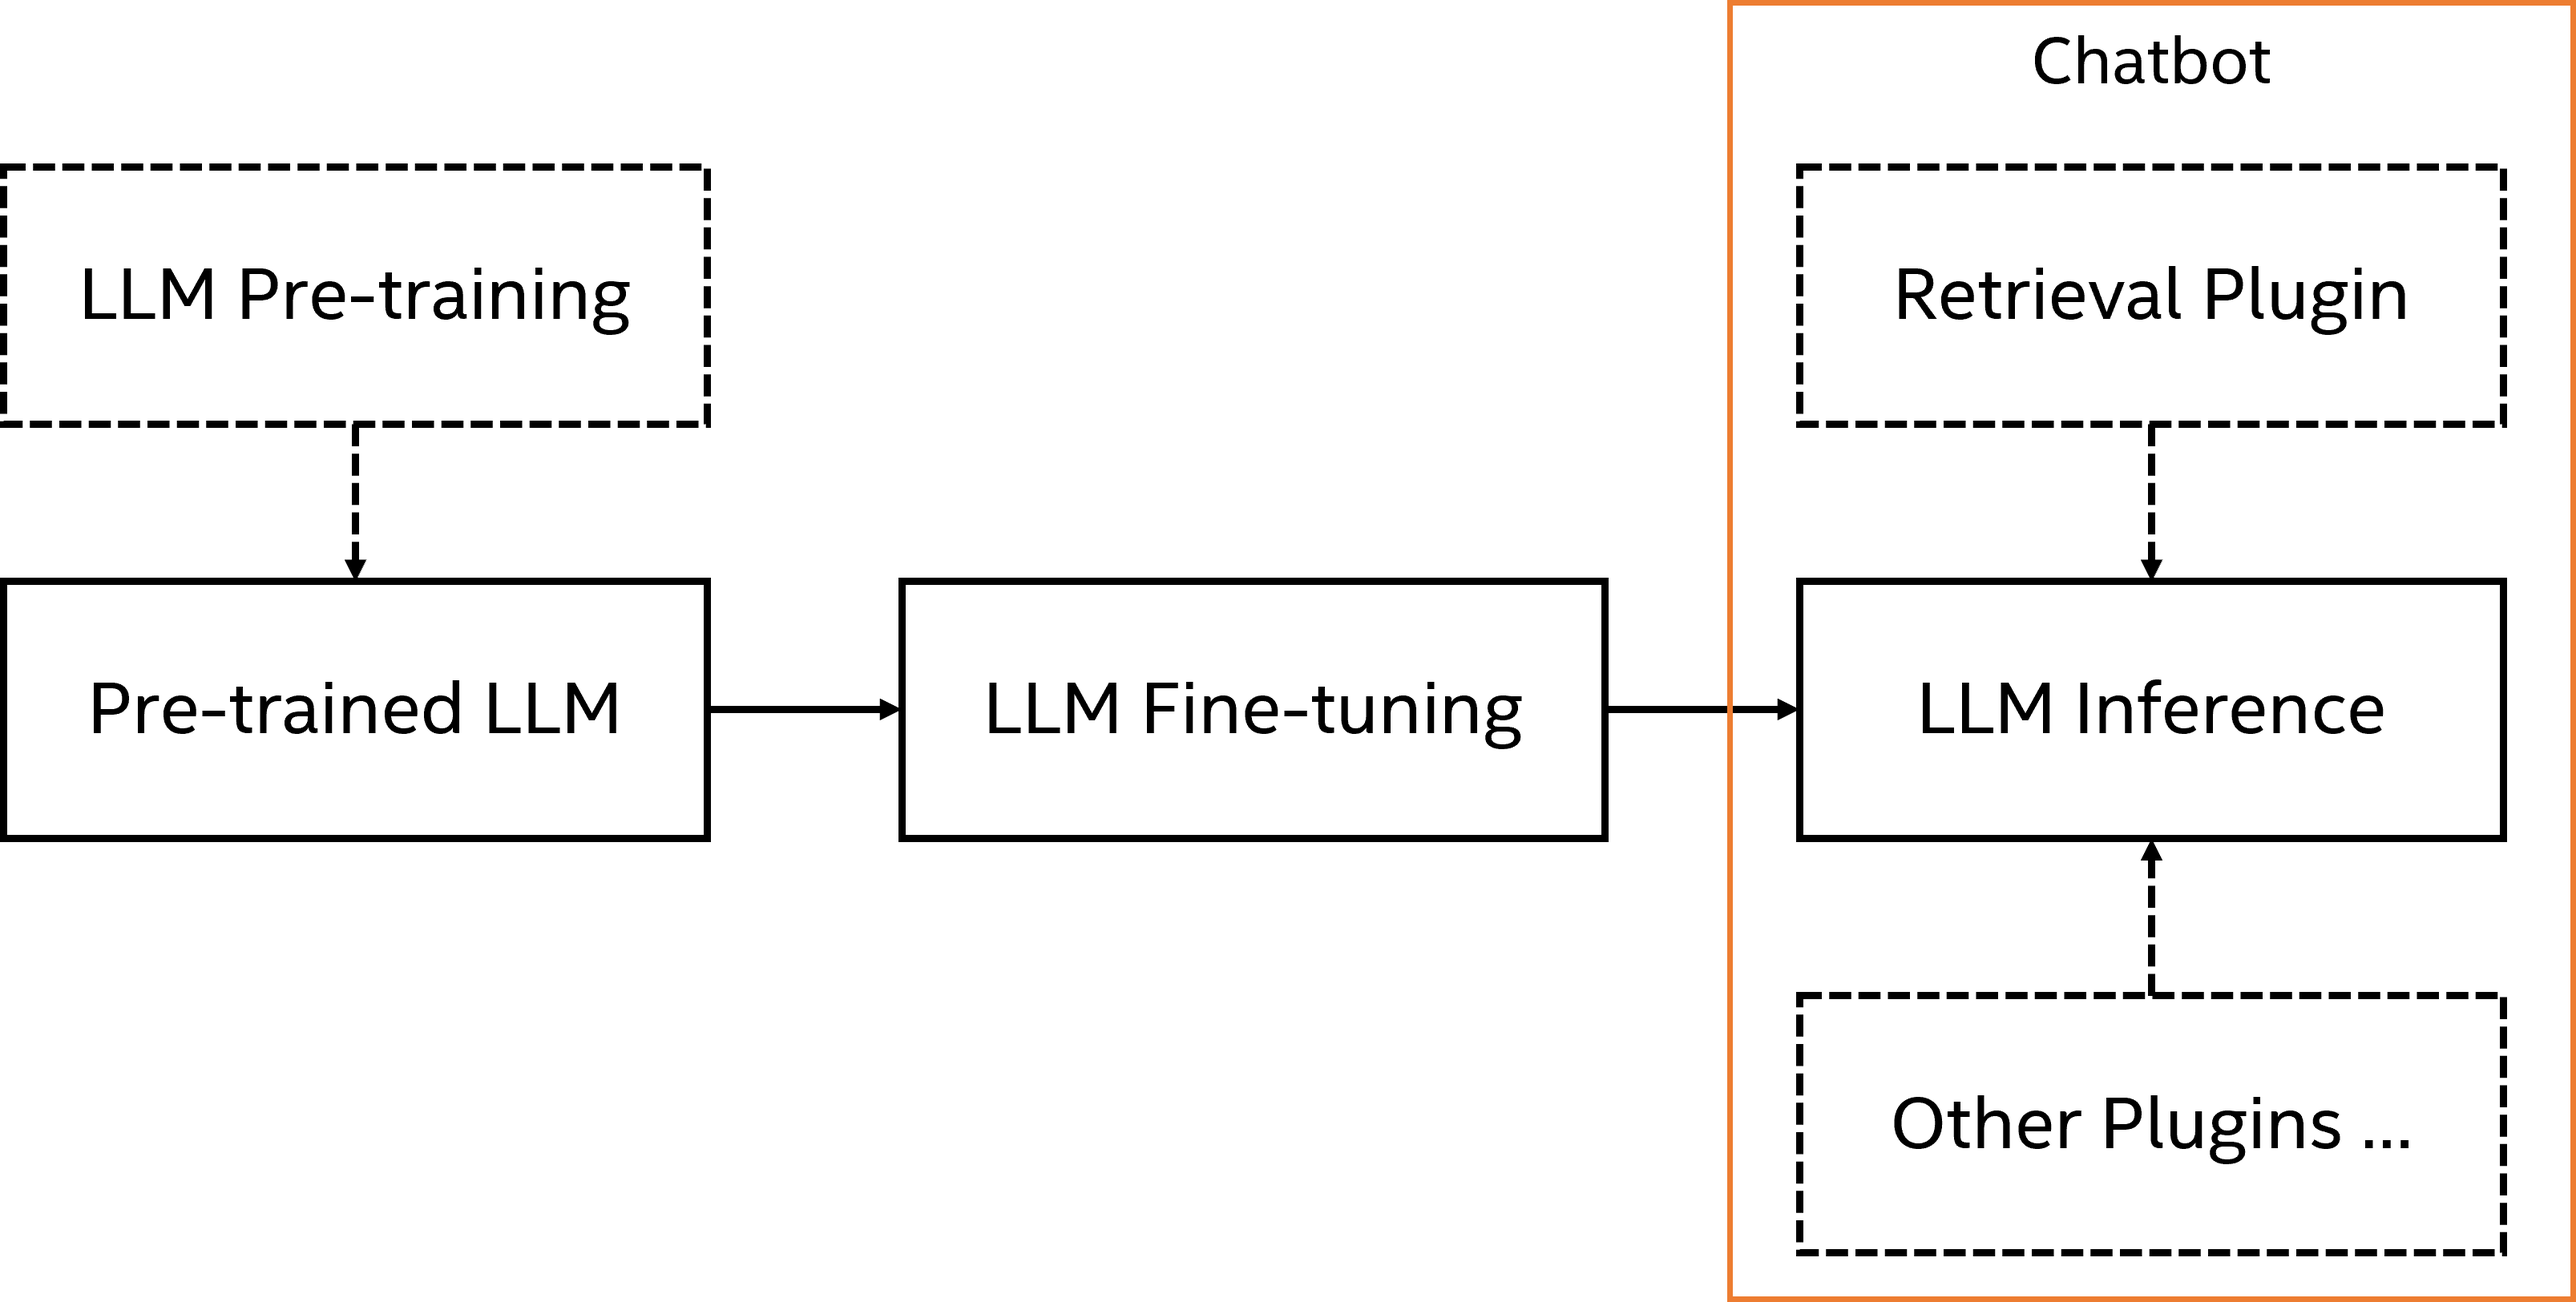
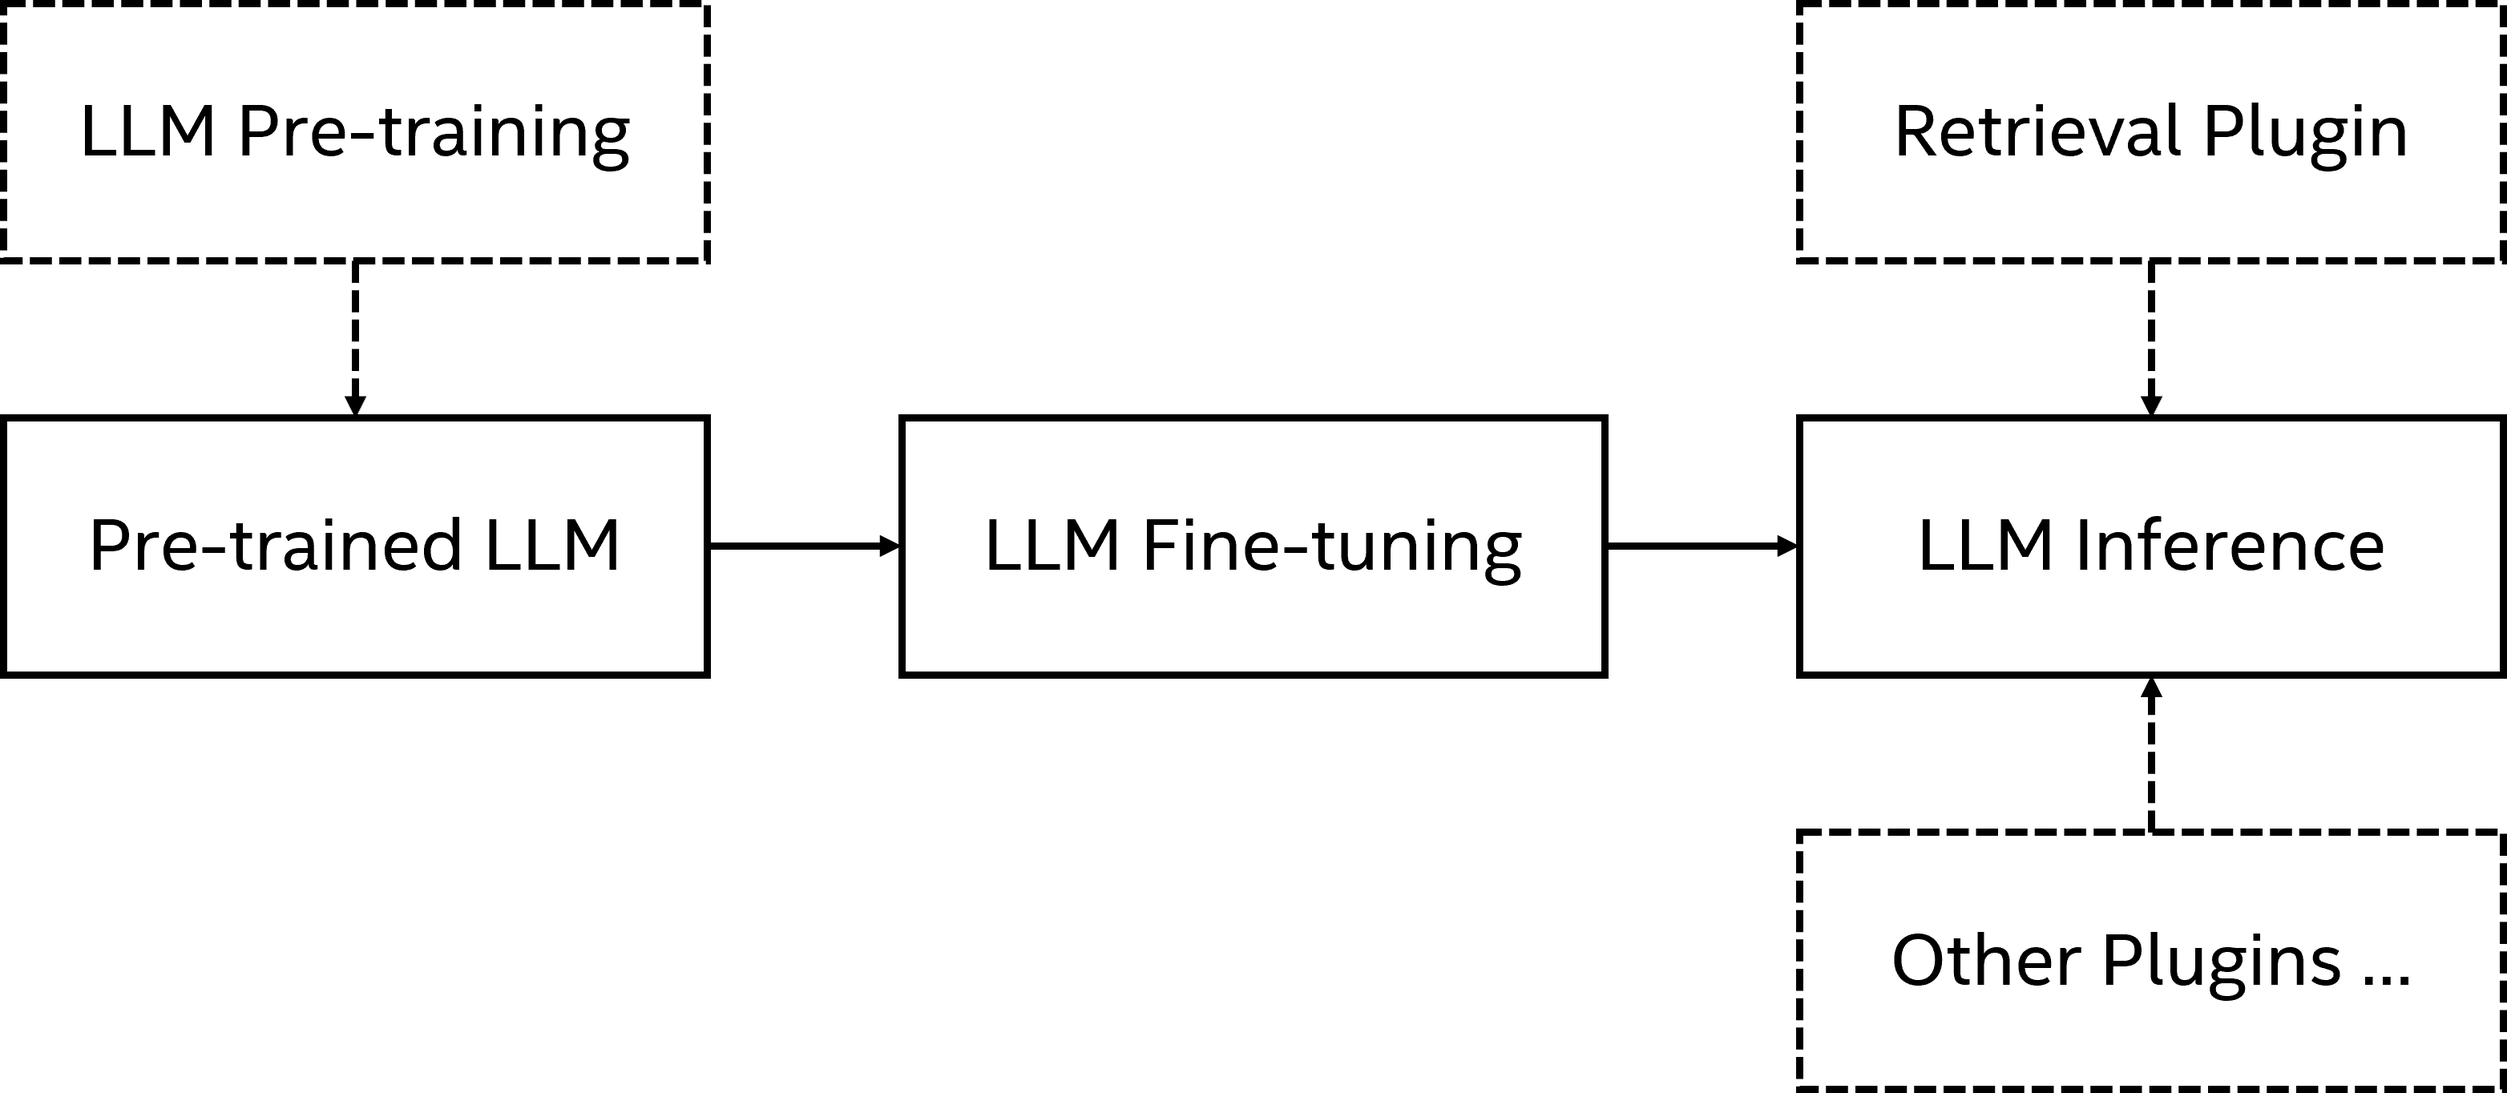
Update NeuralChat flow

diff --git a/workflows/chatbot/README.md b/workflows/chatbot/README.md
@@ -1,18 +1,25 @@
 NeuralChat
 ============
 
-NeuralChat is a powerful and versatile chatbot designed to facilitate textual conversations. By providing NeuralChat with textual instructions, users can receive accurate and relevant textual responses. We provide a comprehensive workflow for building a highly customizable end-to-end chatbot service, covering model pre-training, model fine-tuning, model compression, prompt engineering, knowledge base retrieval and quick deployment.
+NeuralChat is a general chat framework designed to create your own chatbot that can be efficiently deployed on Intel platforms. NeuralChat is built on top of large language models (LLMs) and provides a set of strong capabilities including LLM fine-tuning and LLM inference with a rich set of plugins such as knowledge retrieval, query caching, etc. With NeuralChat, you can easily create a text-based or audio-based chatbot and deploy on Intel platforms rapidly. Here is the flow of NeuralChat:
+
+<a target="_blank" href="neuralchat.png">
+  <img src="neuralchat.png" alt="NeuralChat" width=600 height=400>
+</a>
+
+## Fine-tuning
+
+We provide a comprehensive pipeline on fine-tuning a customized model. It covers the process of [generating custom instruction datasets](./fine_tuning/instruction_generator/), [instruction templates](./fine_tuning/instruction_template), [fine-tuning the model with these datasets](./fine_tuning/instruction_tuning_pipeline/), and leveraging an [RLHF (Reinforcement Learning from Human Feedback) pipeline](./fine_tuning/rlhf_learning_pipeline/) for efficient LLM fine-tuning. For detailed information and step-by-step instructions, please consult this [README file](./fine_tuning/README.md).
 
 
+## Inference
 
-## Fine-tuning Pipeline
-
-We provide a comprehensive pipeline on fine-tuning a customized model. It covers the process of [generating custom instruction datasets](./fine_tuning/instruction_generator/), [instruction templates](./fine_tuning/instruction_template), [fine-tuning the model with these datasets](./fine_tuning/instruction_tuning_pipeline/), and leveraging an [RLHF (Reinforcement Learning from Human Feedback) pipeline](./fine_tuning/rlhf_learning_pipeline/) for efficient fine-tuning of the pretrained large language model (LLM). For detailed information and step-by-step instructions, please consult this [README file](./fine_tuning/README.md).
+We provide multiple plugins to argument LLM inference for chatbot. Our plugins support knowledge retrieval, query caching, prompt optimization, safety checker, etc. Knowledge retrieval consists of [document indexing](./inference/document_indexing/README.md) for efficient retrieval of relevant information, including Dense Indexing based on [LangChain](https://github.com/hwchase17/langchain) and Sparse Indexing based on [fastRAG](https://github.com/IntelLabs/fastRAG), [document rankers](./inference/document_ranker/) to prioritize the most relevant responses. Query caching enables the fast path to get the response without LLM inference and therefore improves the chat response time. Prompt optimization suppots [auto prompt engineering](./inference/auto_prompt/) to improve user prompts, [instruction optimization](./inference/instruction_optimization/) to enhance the model's performance, and [memory controller](./inference/memory_controller/) for efficient memory utilization. For more information on these optimization techniques, please refer to this [README file](./inference/README.md).
 
 
-## Inference Pipeline
+## Pre-training
 
-We focuse on optimizing the inference process of the fine-tuned customized model. It includes [auto prompt engineering](./inference/auto_prompt/) techniques for improving user prompts, [document indexing](./inference/document_indexing/README.md) for efficient retrieval of relevant information, including Dense Indexing based on [LangChain](https://github.com/hwchase17/langchain) and Sparse Indexing based on [fastRAG](https://github.com/IntelLabs/fastRAG), [document rankers](./inference/document_ranker/) to prioritize the most relevant responses, [instruction optimization](./inference/instruction_optimization/) to enhance the model's performance, and a [memory controller](./inference/memory_controller/) for efficient memory utilization. For more information on these optimization techniques, please refer to this [README file](./inference/README.md).
+Under construction
 
 ## Deployment
 
